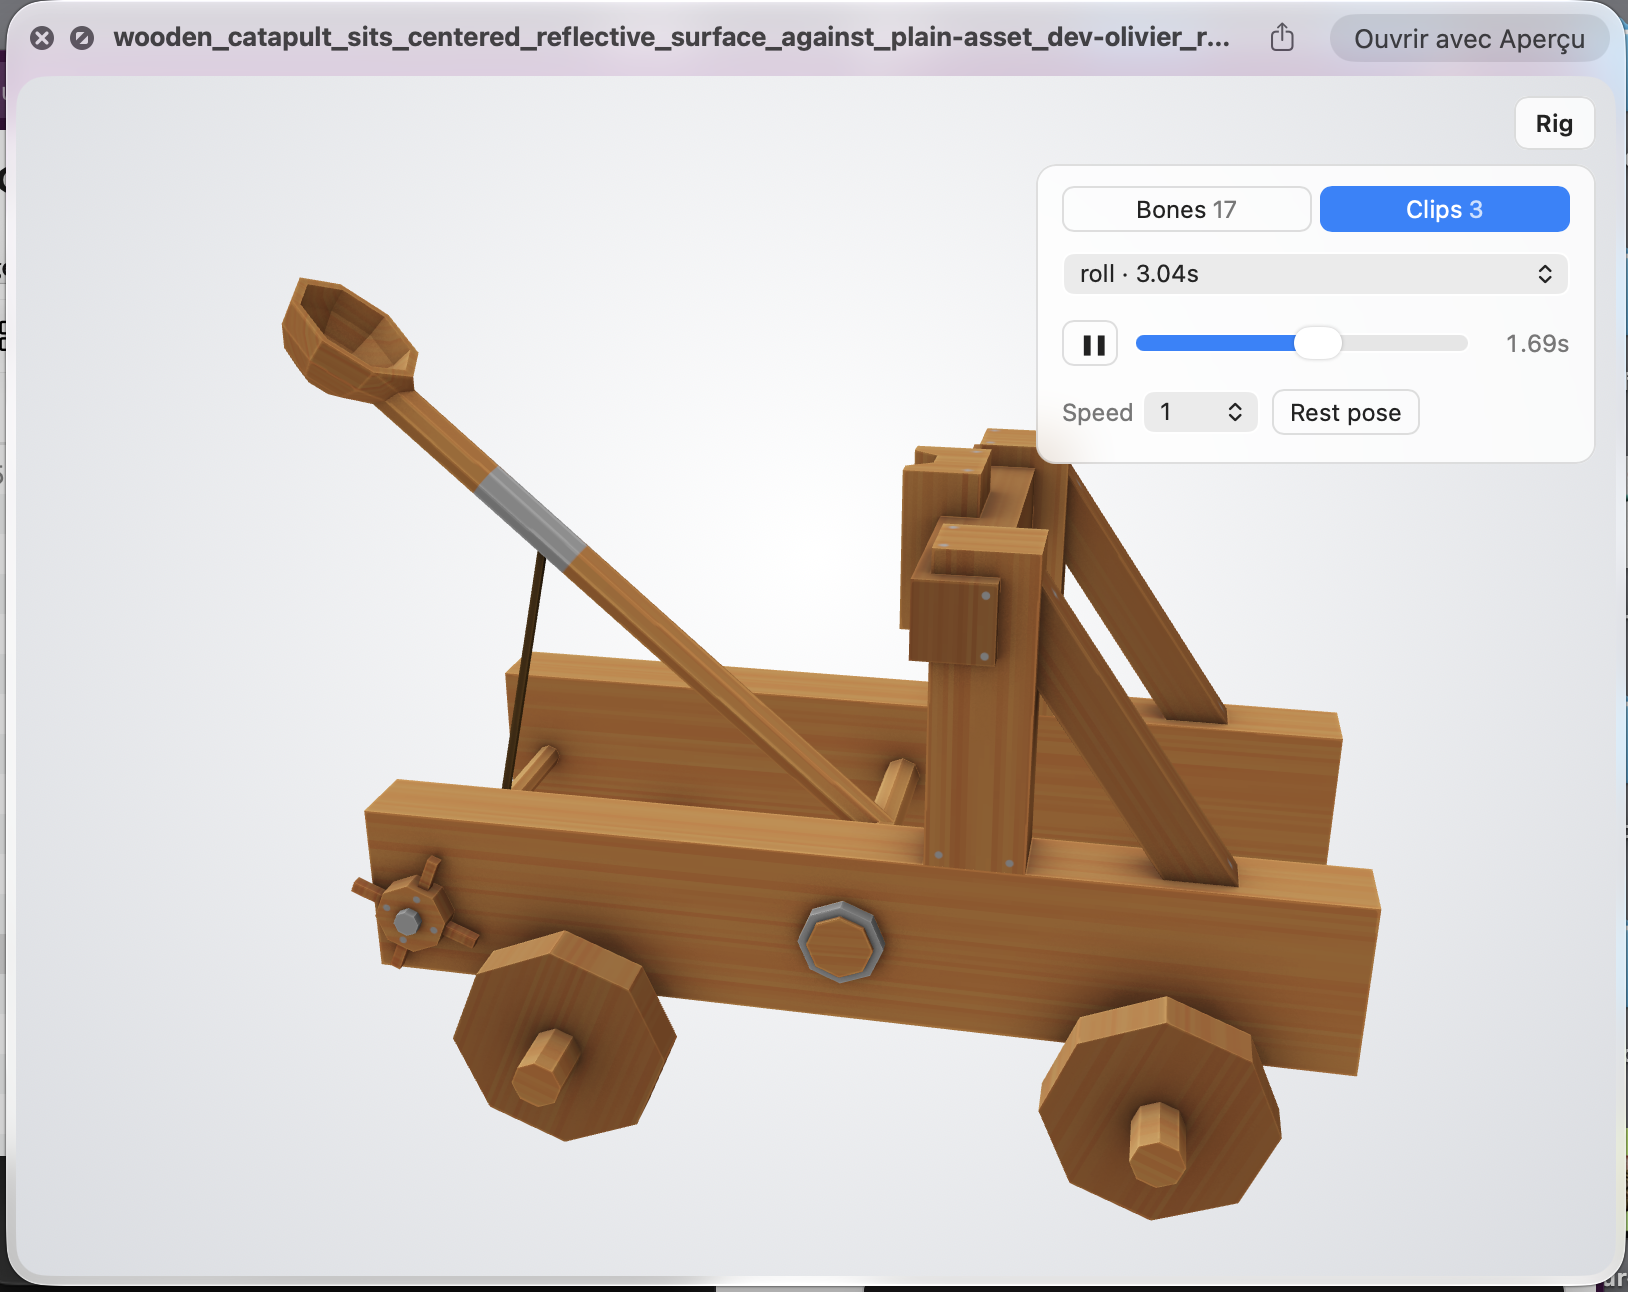
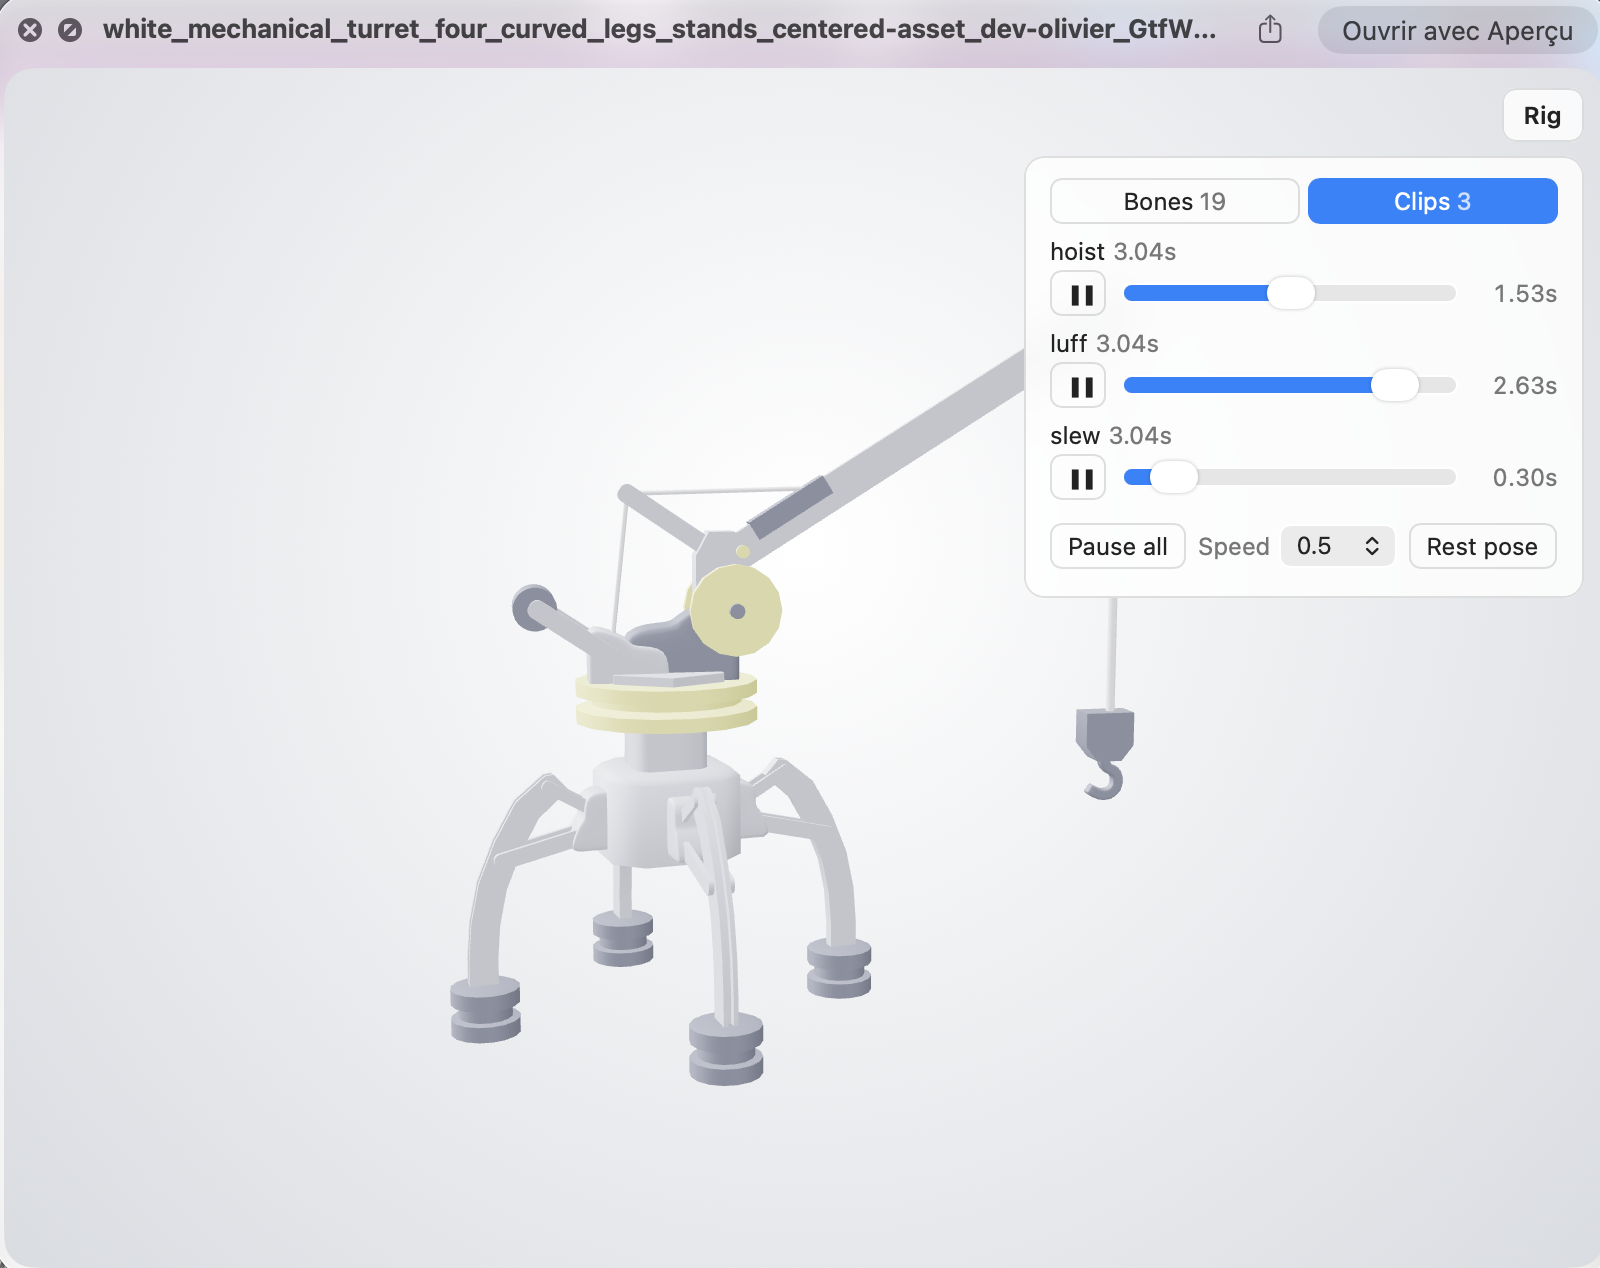
README: new screenshot showing parallel clip playback

diff --git a/README.md b/README.md
@@ -5,7 +5,7 @@ Quick Look extension to preview `.glb` / `.gltf` files in the Finder (Space bar)
 
 | Without GLB Quick Look | With GLB Quick Look |
 |---|---|
-| ![macOS can't preview .glb files](docs/before.png) | ![Interactive 3D preview with rig panel and animation clips](docs/after.png) |
+| ![macOS can't preview .glb files](docs/before.png) | ![Interactive 3D preview playing three animation clips in parallel](docs/after.png) |
 | macOS can't open `.glb` files in Quick Look. | Interactive 3D preview, plus a **Rig** panel to pose bones, drive blendshapes and play baked animation clips. |
 
 - `Extension/PreviewViewController.swift`: loads the file and injects it into a WKWebView
